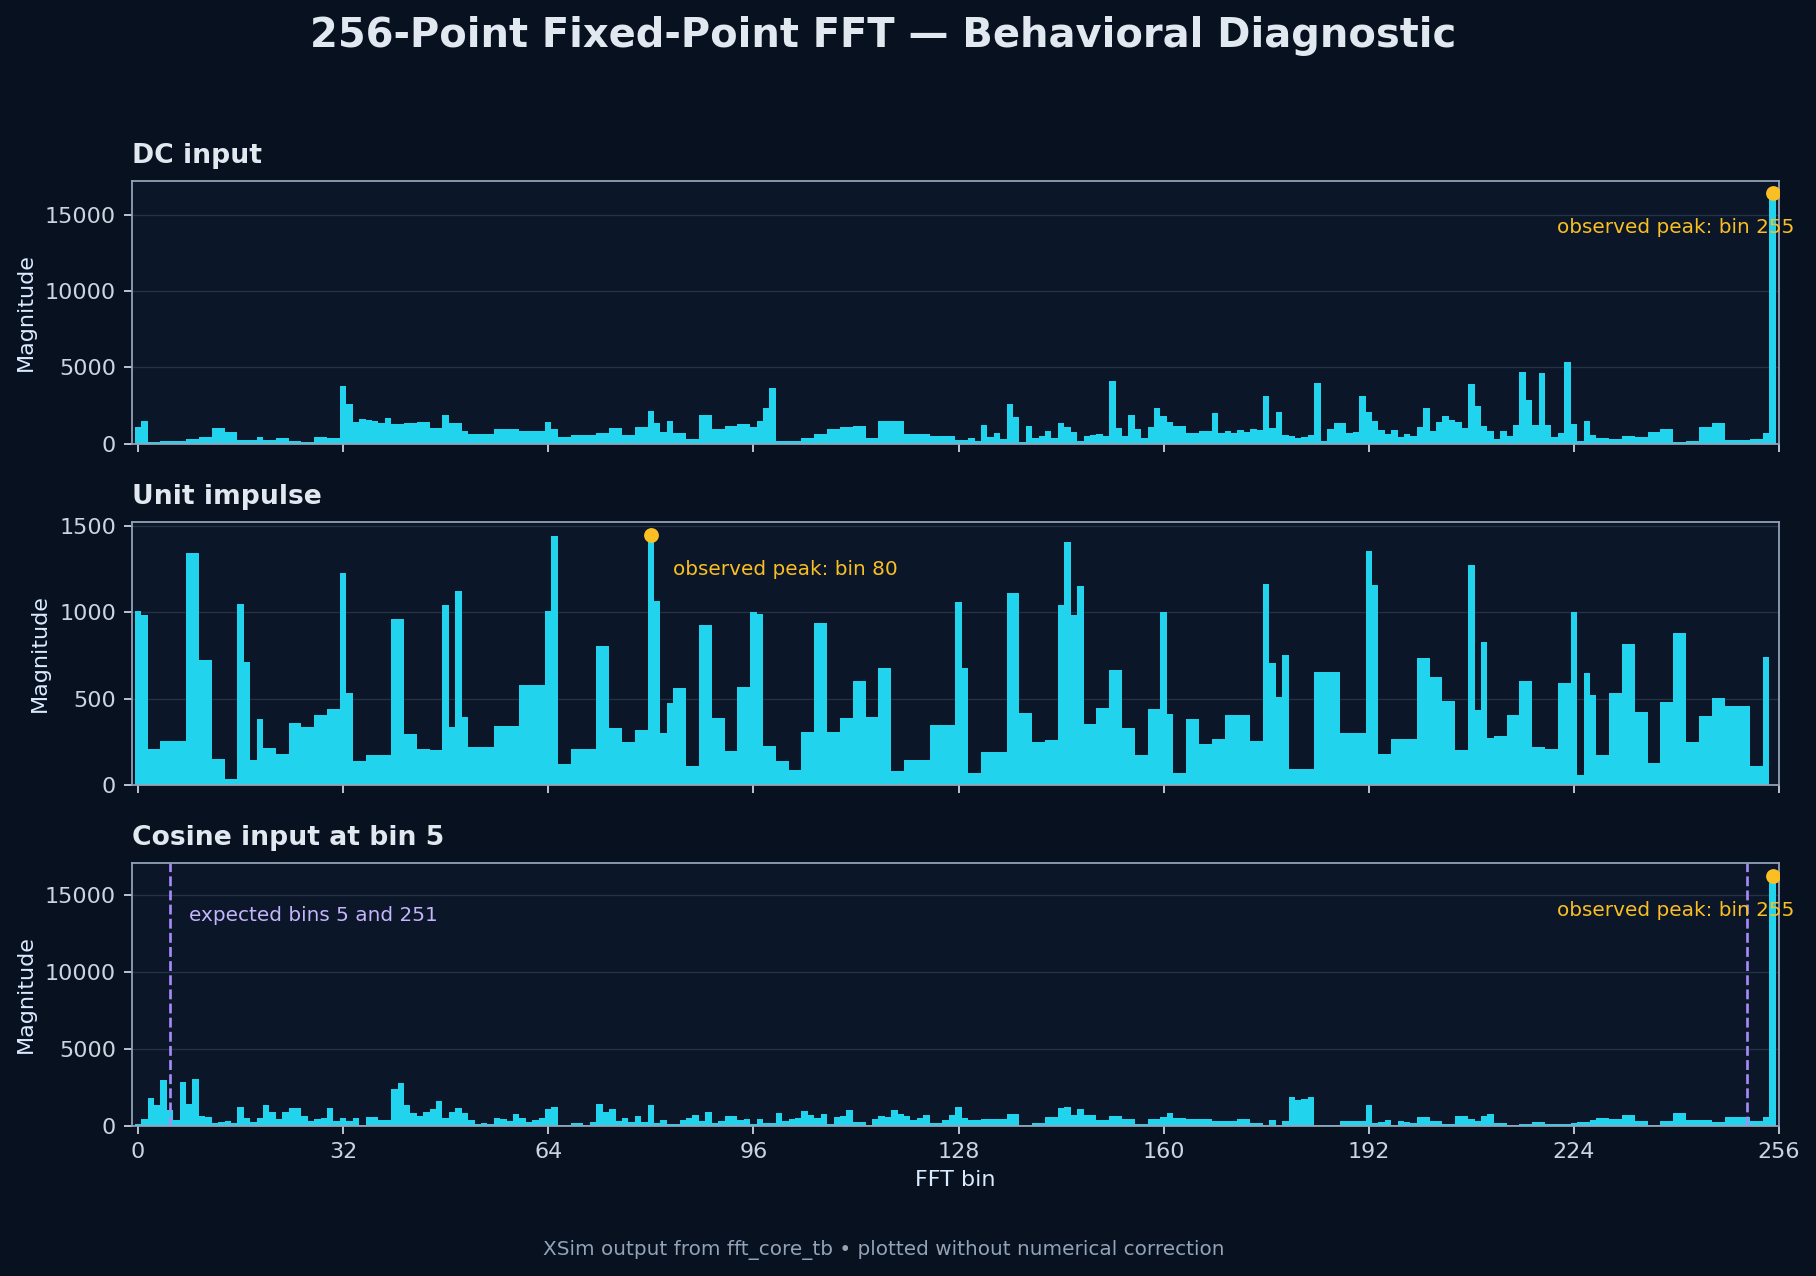
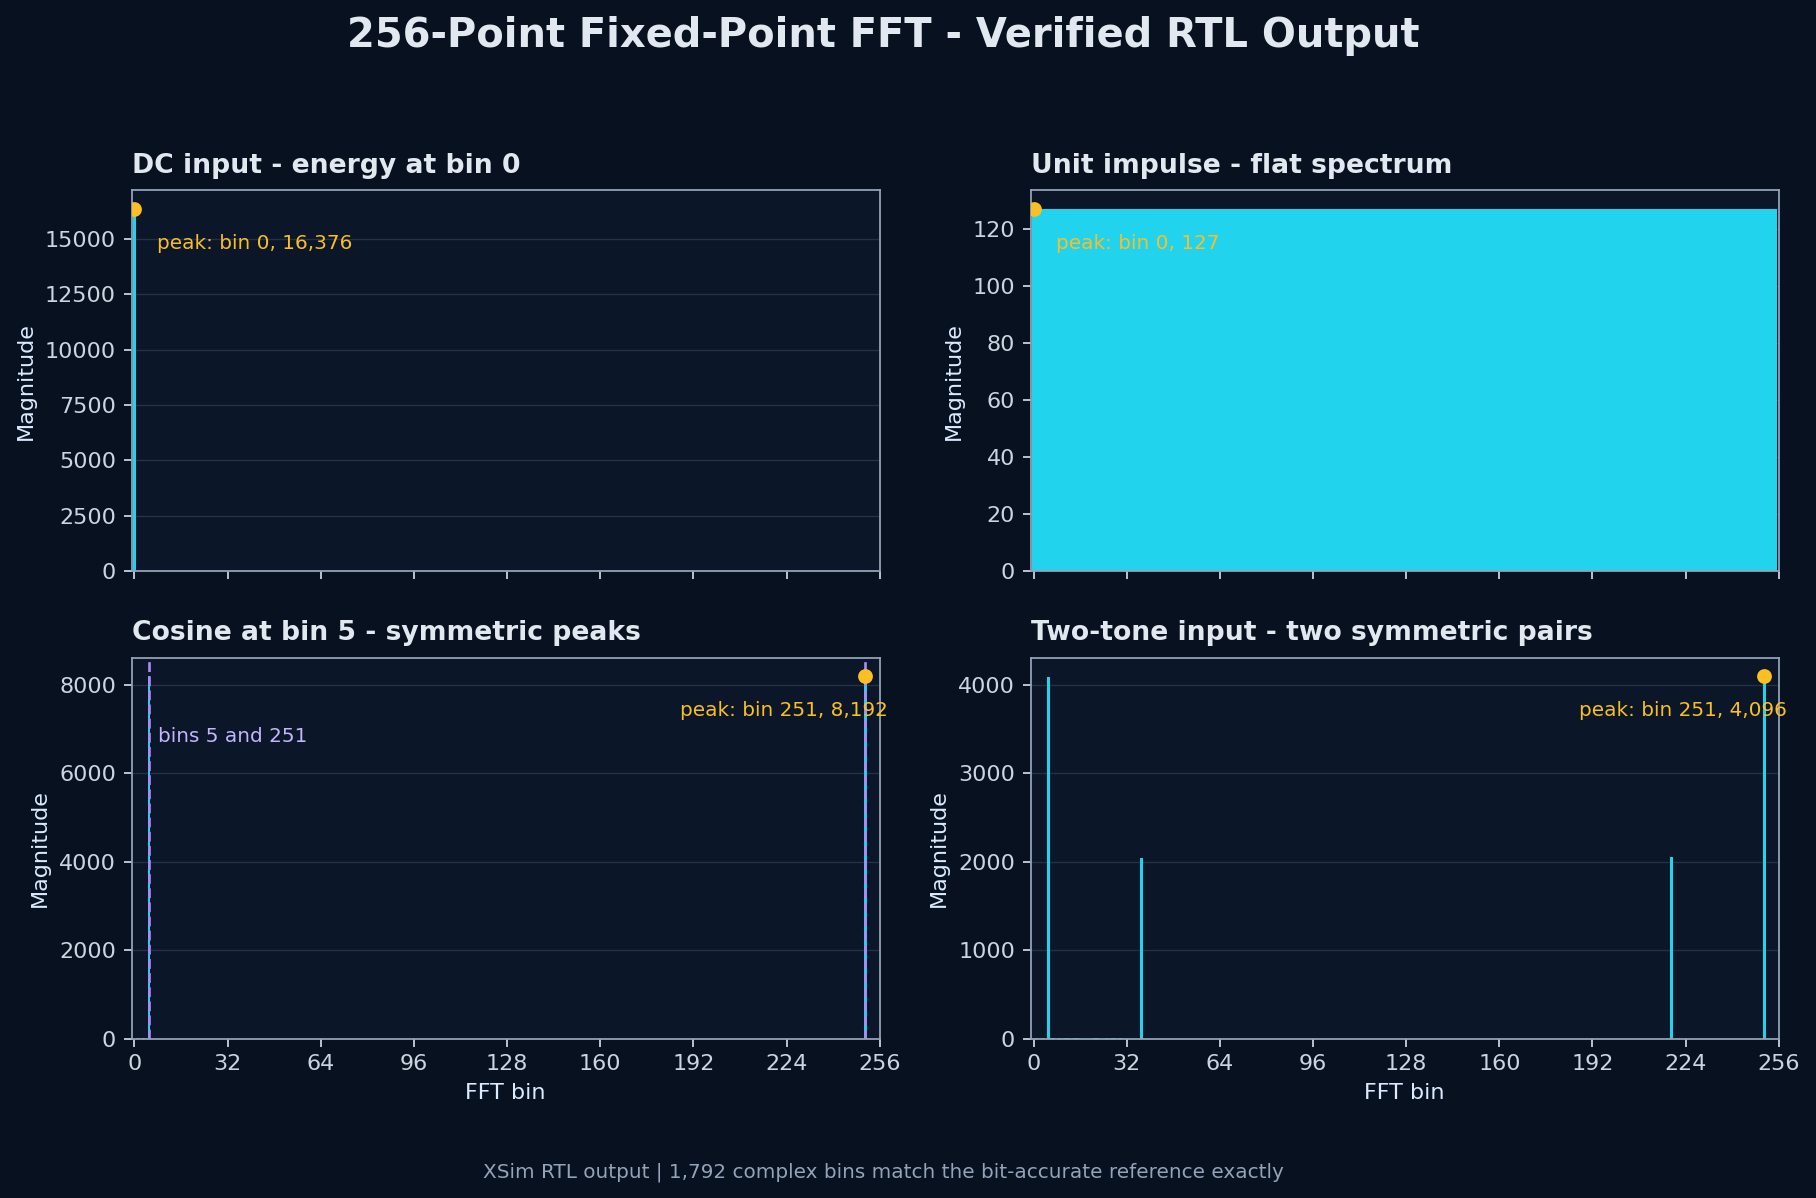
Refresh verified FFT output figure

diff --git a/scripts/plot_fft_results.py b/scripts/plot_fft_results.py
@@ -1,5 +1,5 @@
 #!/usr/bin/env python3
-"""Plot the bin data exported by fft_core_tb."""
+"""Render selected verified FFT spectra exported by fft_core_tb."""
 
 from __future__ import annotations
 
@@ -23,7 +23,7 @@ DEFAULT_OUTPUT = PROJECT_ROOT / "assets" / "fft-diagnostic.png"
 
 def parse_args() -> argparse.Namespace:
     parser = argparse.ArgumentParser(
-        description="Plot the diagnostic FFT output exported by the XSim testbench."
+        description="Plot verified FFT output exported by the XSim testbench."
     )
     parser.add_argument("--input", type=Path, default=DEFAULT_INPUT)
     parser.add_argument("--output", type=Path, default=DEFAULT_OUTPUT)
@@ -43,10 +43,19 @@ def load_results(path: Path) -> dict[str, list[tuple[int, int]]]:
 def main() -> None:
     args = parse_args()
     results = load_results(args.input)
-    case_order = ["DC input (0.5)", "unit impulse", "cosine at bin 5"]
+    case_order = [
+        "DC input (0.5)",
+        "unit impulse",
+        "cosine at bin 5",
+        "two-tone real input",
+    ]
     missing = [name for name in case_order if name not in results]
     if missing:
         raise SystemExit(f"missing simulation cases: {', '.join(missing)}")
+    for case_name, values in results.items():
+        bins = sorted(item[0] for item in values)
+        if bins != list(range(256)):
+            raise SystemExit(f"{case_name!r} does not contain bins 0 through 255")
 
     plt.rcParams.update(
         {
@@ -59,21 +68,22 @@ def main() -> None:
             "text.color": "#e2e8f0",
         }
     )
-    figure, axes = plt.subplots(3, 1, figsize=(12, 8), sharex=True)
+    figure, axes = plt.subplots(2, 2, figsize=(12, 7.5), sharex=True)
     figure.patch.set_facecolor("#07111f")
     figure.suptitle(
-        "256-Point Fixed-Point FFT — Behavioral Diagnostic",
+        "256-Point Fixed-Point FFT - Verified RTL Output",
         fontsize=18,
         fontweight="bold",
         y=0.98,
     )
 
     subtitles = {
-        "DC input (0.5)": "DC input",
-        "unit impulse": "Unit impulse",
-        "cosine at bin 5": "Cosine input at bin 5",
+        "DC input (0.5)": "DC input - energy at bin 0",
+        "unit impulse": "Unit impulse - flat spectrum",
+        "cosine at bin 5": "Cosine at bin 5 - symmetric peaks",
+        "two-tone real input": "Two-tone input - two symmetric pairs",
     }
-    for axis, case_name in zip(axes, case_order):
+    for axis, case_name in zip(axes.flat, case_order):
         values = sorted(results[case_name])
         bins = [item[0] for item in values]
         magnitudes = [item[1] for item in values]
@@ -87,7 +97,7 @@ def main() -> None:
             [peak_bin], [peak_magnitude], color="#fbbf24", s=32, zorder=3
         )
         axis.annotate(
-            f"observed peak: bin {peak_bin}",
+            f"peak: bin {peak_bin}, {peak_magnitude:,}",
             xy=(peak_bin, peak_magnitude),
             xytext=(10, -18),
             textcoords="offset points",
@@ -101,7 +111,7 @@ def main() -> None:
             axis.text(
                 8,
                 axis.get_ylim()[1] * 0.78,
-                "expected bins 5 and 251",
+                "bins 5 and 251",
                 color="#c4b5fd",
                 fontsize=9,
             )
@@ -112,18 +122,20 @@ def main() -> None:
         axis.set_axisbelow(True)
         axis.margins(x=0)
 
-    axes[-1].set_xlabel("FFT bin")
-    axes[-1].set_xlim(-1, 256)
-    axes[-1].set_xticks(range(0, 257, 32))
+    for axis in axes[-1]:
+        axis.set_xlabel("FFT bin")
+    for axis in axes.flat:
+        axis.set_xlim(-1, 256)
+        axis.set_xticks(range(0, 257, 32))
     figure.text(
         0.5,
         0.012,
-        "XSim output from fft_core_tb • plotted without numerical correction",
+        "XSim RTL output | 1,792 complex bins match the bit-accurate reference exactly",
         ha="center",
         color="#94a3b8",
         fontsize=9,
     )
-    figure.tight_layout(rect=(0.035, 0.04, 0.99, 0.95), h_pad=1.1)
+    figure.tight_layout(rect=(0.035, 0.05, 0.99, 0.94), h_pad=1.5, w_pad=1.2)
 
     args.output.parent.mkdir(parents=True, exist_ok=True)
     figure.savefig(args.output, dpi=160, bbox_inches="tight", facecolor=figure.get_facecolor())
